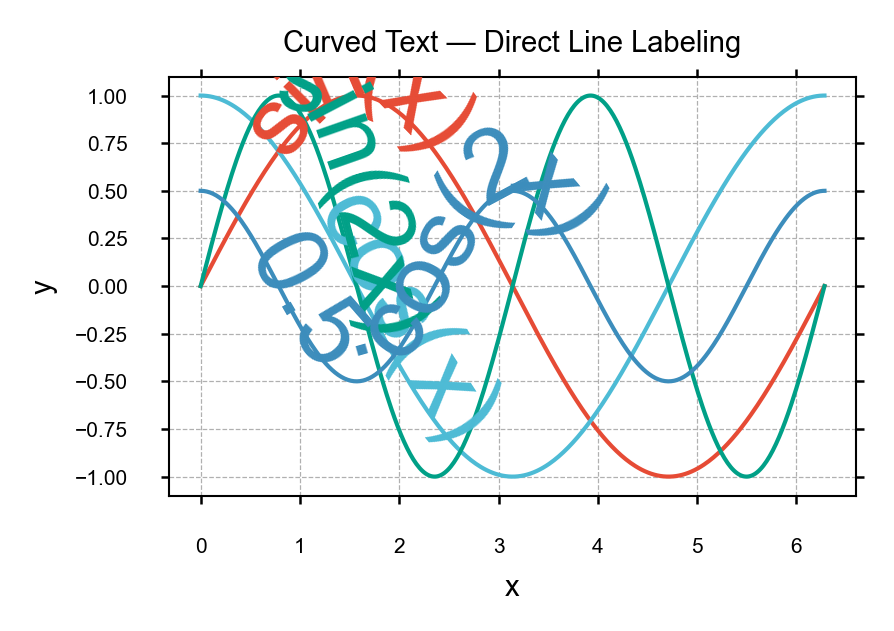
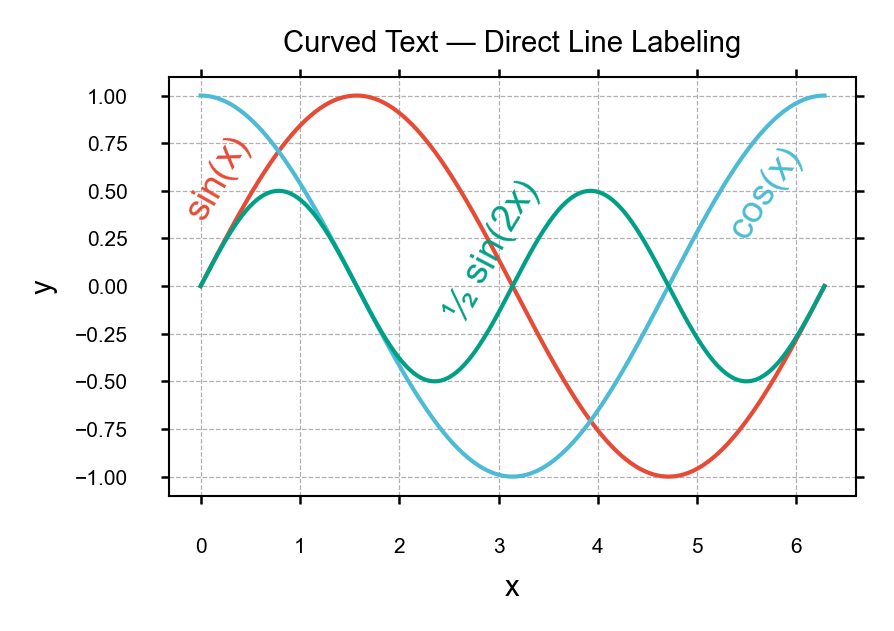
Fix curved text demo: spread labels across plot
Replaced 4 overlapping labels with 3 well-separated ones at different
arc-length positions (0.10, 0.52, 0.88) so each label lands in a
distinct region of the figure.

diff --git a/src/peerstyle/preview.py b/src/peerstyle/preview.py
@@ -33,17 +33,19 @@ def create_curved_text_demo(style_name="nature", output_path=None):
 
     x = np.linspace(0, 2 * np.pi, 400)
 
+    # Each label placed at a different arc-length fraction so they
+    # land in separate regions of the plot.
     curves = [
-        (np.sin(x),         "sin(x)",         "C0", 0.25),
-        (np.cos(x),         "cos(x)",         "C1", 0.30),
-        (np.sin(2 * x),     "sin(2x)",        "C2", 0.20),
-        (0.5 * np.cos(2*x), "0.5·cos(2x)",   "C3", 0.35),
+        (np.sin(x),      "sin(x)",    "C0", 0.10,  9),
+        (np.cos(x),      "cos(x)",    "C1", 0.88, -9),
+        (np.sin(2*x)/2,  "½ sin(2x)", "C2", 0.52,  9),
     ]
 
     fig, ax = plt.subplots()
-    for y, label, color, pos in curves:
+    for y, label, color, pos, offset in curves:
         ax.plot(x, y, color=color)
-        peerstyle.curved_text(ax, x, y, label, pos=pos, offset=6, color=color)
+        peerstyle.curved_text(ax, x, y, label,
+                              pos=pos, offset=offset, color=color, fontsize=9)
 
     ax.set_xlabel('x')
     ax.set_ylabel('y')